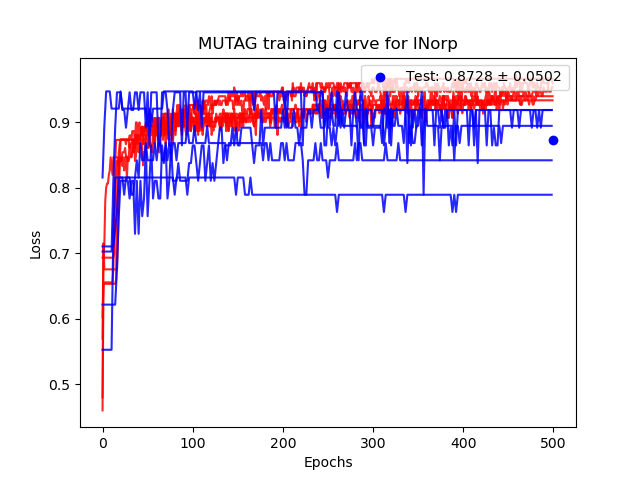
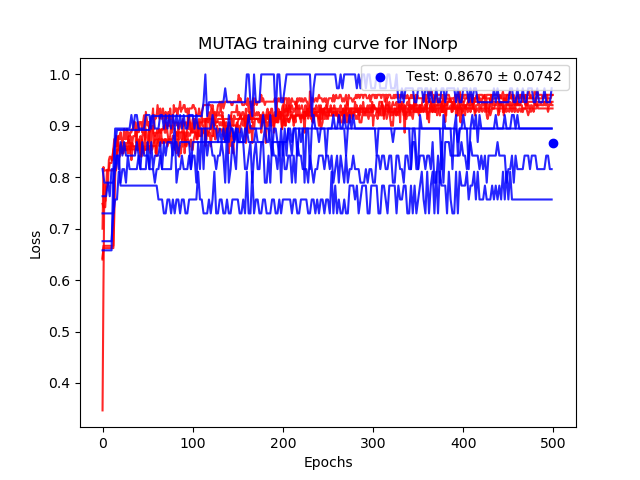
simplify training

diff --git a/kgcnn/data/datasets/mutag.py b/kgcnn/data/datasets/mutag.py
@@ -30,11 +30,13 @@ class MUTAGDataset(GraphTUDataset2020):
         self.node_attributes = [node_translate[np.array(x, dtype="int")][:, 0] for x in self.node_labels]
         # nodes = [node_translate[x] for x in nodes0123]
         atoms = [[atoms_translate[int(y)] for y in x] for x in self.node_labels]
+        graph_labels = np.array(self.graph_labels)
+        graph_labels[graph_labels<0] = 0
 
         self.edge_attributes = [x[:, 0] for x in self.edge_labels]
         self.node_symbol = atoms
         self.node_number = self.node_attributes
-        self.graph_labels[self.graph_labels < 0] = 0
+        self.graph_labels = [x for x in graph_labels]
         self.graph_attributes = None  # We make a better graph attributes here
         self.graph_size = [len(x) for x in self.node_attributes]
 

diff --git a/kgcnn/data/datasets/PROTEINS.py b/kgcnn/data/datasets/PROTEINS.py
@@ -24,7 +24,7 @@ class PROTEINSDatset(GraphTUDataset2020):
         processing.
         """
         super(PROTEINSDatset, self).read_in_memory()
-        self.graph_labels = np.array([[0, 1] if int(x) == 2 else [1, 0] for x in self.graph_labels])
+        self.graph_labels = [np.array([0, 1]) if int(x) == 2 else np.array([1, 0]) for x in self.graph_labels]
         ohe = OneHotEncoder(
             [-538, -345, -344, -134, -125, -96, 1, 2, 3, 4, 5, 6, 7, 8, 9, 10, 11, 12, 13, 14, 15, 16, 17, 18, 19, 20,
              21, 22, 23, 24, 25, 26, 27, 28, 29, 30, 31, 32, 33, 34, 35, 36, 37, 38, 39, 41, 42, 47, 61, 63, 73, 74, 75,

diff --git a/training/hyper/hyper_proteins.py b/training/hyper/hyper_proteins.py
@@ -4,7 +4,7 @@ hyper = {
             "name": "GIN",
             "inputs": [{"shape": [None, 3], "name": "node_labels", "dtype": "float32", "ragged": True},
                        {"shape": [None, 2], "name": "edge_indices", "dtype": "int64", "ragged": True}],
-            "input_embedding": {"node_labels": {"input_dim": 800, "output_dim": 64}},
+            "input_embedding": {"node": {"input_dim": 800, "output_dim": 64}},
             "output_embedding": "graph",
             "output_mlp": {"use_bias": True, "units": 2, "activation": "softmax"},
             "last_mlp": {"use_bias": [True], "units": [2],

diff --git a/training/train_mutag.py b/training/train_mutag.py
@@ -29,7 +29,7 @@ model_selection = ModelSelection(model_name)
 hyper_selection = HyperSelection(hyper_path, model_name=model_name, dataset_name=dataset_name)
 
 # Loading MUTAG Dataset
-dataset = MUTAGDataset().set_attributes()
+dataset = MUTAGDataset()
 dataset.hyper_set_graph_methods(hyper_selection.data())
 dataset.hyper_assert_valid_model_input(hyper_selection.inputs())
 data_length = len(dataset)
